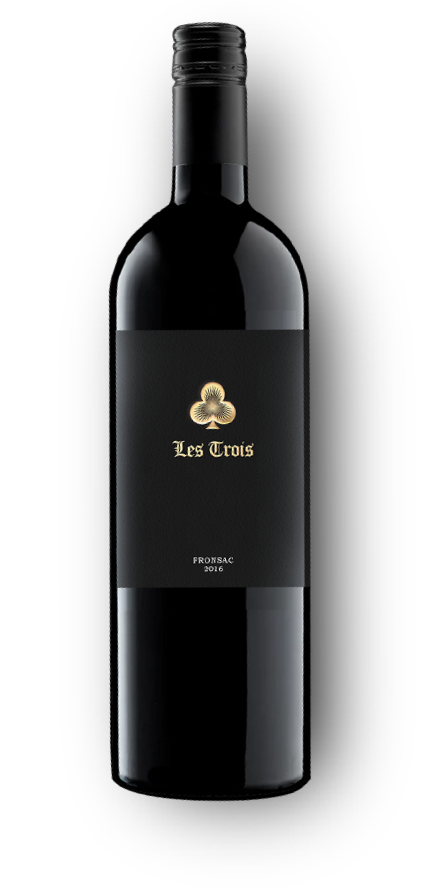
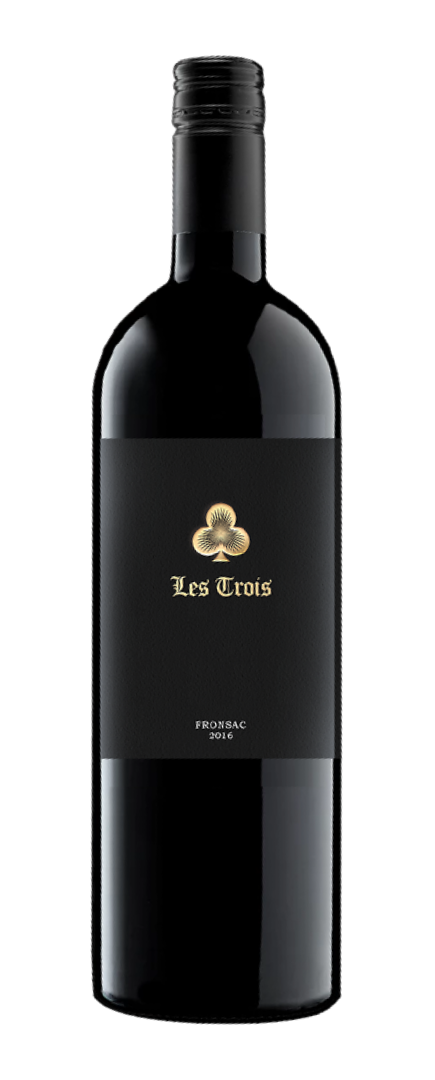
20191205

Changed region(s): [[0.2092, 0.0, 0.8667, 0.9675]]

diff --git a/_includes/our-wines.html b/_includes/our-wines.html
@@ -1,13 +1,31 @@
 <section id="our-wines">
-  <div class="container">
+  <div id="myCarousel" class="carousel slide container" data-ride="carousel" data-interval="2000">
     <div class="media">
       <div class="row">
         <div class="wine-desc col-lg-6 col-md-6">
     		  <h1>Our Wines</h1>
     		  <p>We are passionate about making wines that bring together great company and will be the centerpiece of unique connections and experiences.</p>
+          <!-- <a class="left carousel-control" href="#myCarousel" role="button" data-slide="prev">
+            <span class="glyphicon glyphicon-chevron-left" aria-hidden="true"></span>
+            <span class="sr-only">Previous</span>
+          </a>
+          <a class="right carousel-control" href="#myCarousel" role="button" data-slide="next">
+            <span class="glyphicon glyphicon-chevron-right" aria-hidden="true"></span>
+            <span class="sr-only">Next</span>
+          </a> -->
 		    </div>
         <div class="wine-carousel col-lg-6 col-md-6">
-          <img src="{{ site.baseurl }}img/blackbottle.png" alt="">
+          <div class="carousel-inner" role="listbox">
+            <div class="item active">
+              <img src="{{ site.baseurl }}img/blackbottle.png" alt="">
+            </div>
+            <div class="item">
+              <img src="{{ site.baseurl }}img/redbottle.png" alt="">
+            </div>
+            <div class="item active">
+              <img src="{{ site.baseurl }}img/greenbluebottle.png" alt="">
+            </div>
+          </div>
         </div>
       </div>
     </div>

diff --git a/css/style.css b/css/style.css
@@ -265,13 +265,13 @@ header .navbar-default .navbar-nav li a {
 
 #our-wines .wine-carousel {
   position: absolute;
-  top: 15%;
-  right: 10%;
+  top: 10rem;
+  right: 1px;
   text-align: center;
 }
 
 #our-wines .wine-carousel img {
-  width: 300px;
+  width: 250px;
 }
 
 #our-wines h1 {
@@ -299,9 +299,6 @@ header .navbar-default .navbar-nav li a {
   width: 60%;
 }
 
-#our-wines img {
-  width: 25rem;
-}
 
 @media (min-width: 500px) and (max-width: 991px) {
 header {
